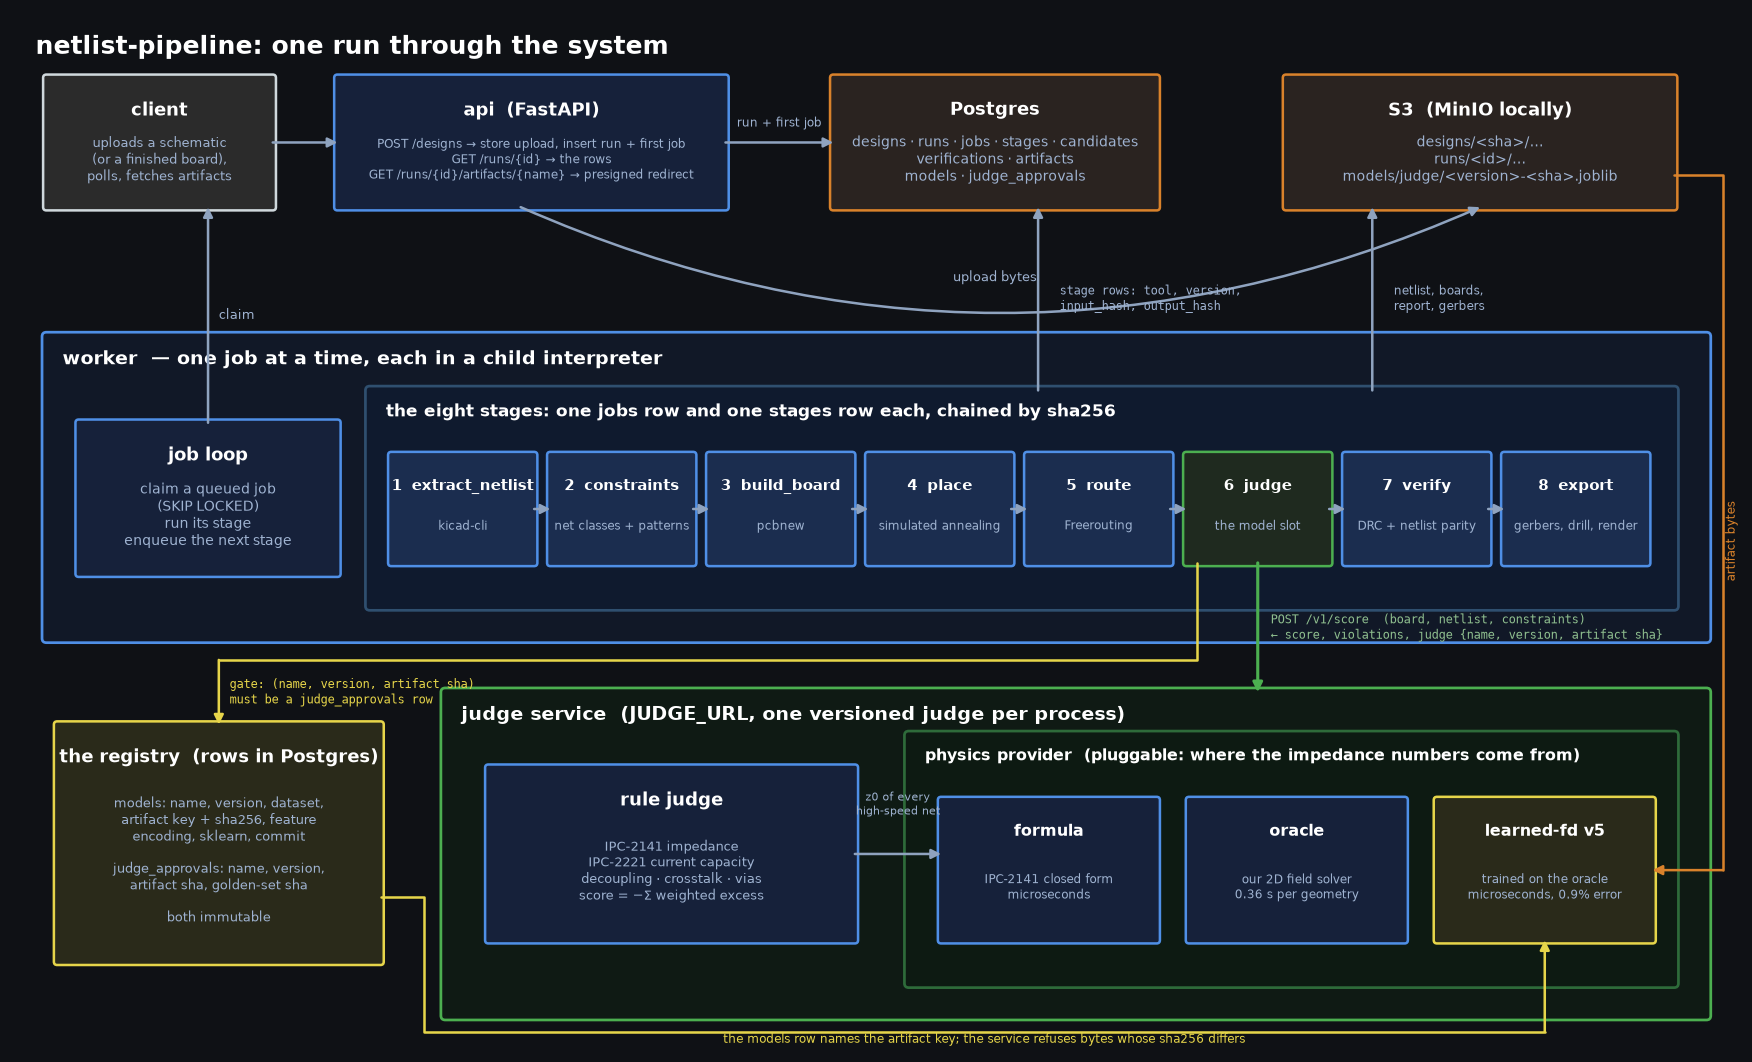
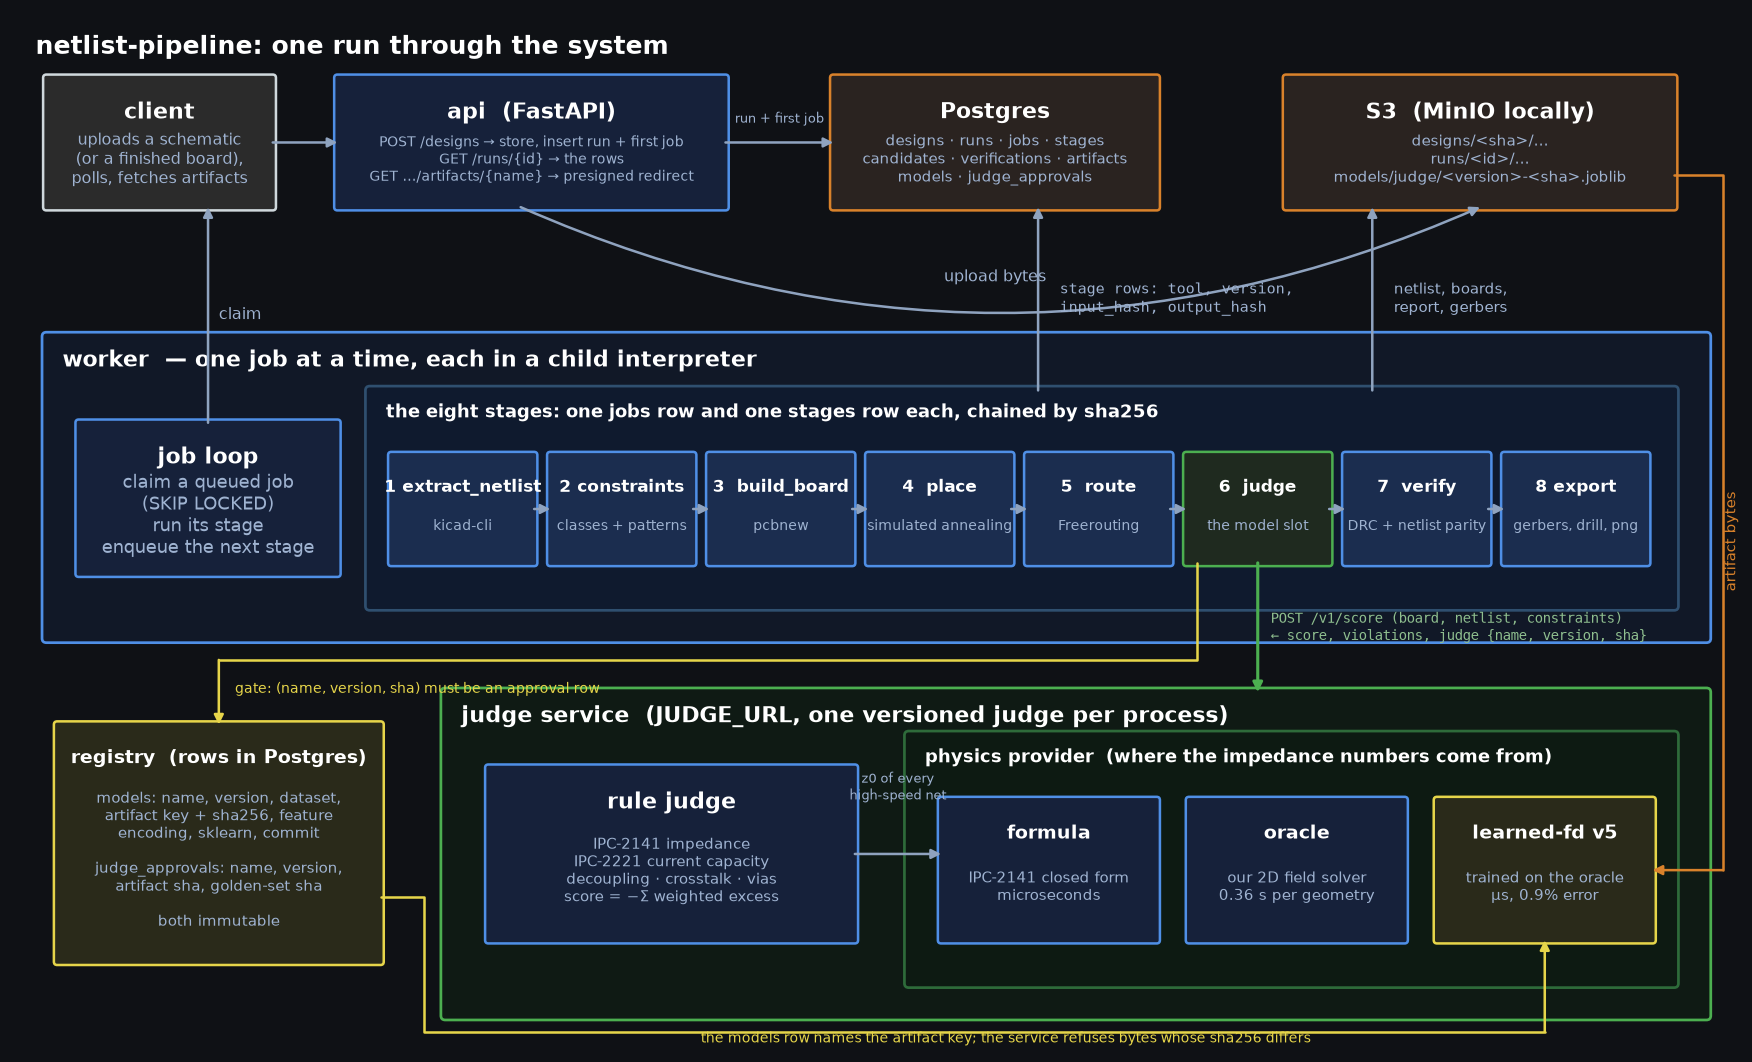
README: simple architecture first, detailed diagram collapsed and set larger
Claude-Session: https://claude.ai/code/session_01QX7QVxu7HEts5nS26wqjjR

diff --git a/docs/media/diagrams.py b/docs/media/diagrams.py
@@ -12,6 +12,7 @@ import matplotlib.pyplot as plt  # noqa: E402
 from matplotlib.patches import FancyBboxPatch  # noqa: E402
 
 OUT = Path(__file__).parent
+F = 1.25  # type scale: GitHub shows the image at ~900 px wide, so text has to be big
 BG, BLUE, BLUE_FC, ORANGE, ORANGE_FC = "#0f1115", "#4f8fe6", "#16213a", "#d9822b", "#2a2320"
 GREEN, GREEN_FC, GOLD, GOLD_FC, GREY, TXT, SUB = (
     "#4caf50", "#1f2a1f", "#e6d54a", "#2a2a1a", "#8fa3bf", "#ffffff", "#9fb3d1",
@@ -24,15 +25,15 @@ def box(ax, x1, y1, x2, y2, title, body="", fc=BLUE_FC, ec=BLUE, ts=9, bs=7.2, l
     )
     cx = (x1 + x2) / 2
     if body:
-        ax.text(cx, y2 - 2.2, title, color=TXT, ha="center", va="top", fontsize=ts, weight="bold")
-        ax.text(cx, y1 + (y2 - y1 - 3.2) / 2, body, color=SUB, ha="center", va="center", fontsize=bs)
+        ax.text(cx, y2 - 2.2, title, color=TXT, ha="center", va="top", fontsize=ts * F, weight="bold")
+        ax.text(cx, y1 + (y2 - y1 - 3.2) / 2, body, color=SUB, ha="center", va="center", fontsize=bs * F)
     else:
-        ax.text(cx, (y1 + y2) / 2, title, color=TXT, ha="center", va="center", fontsize=ts, weight="bold")
+        ax.text(cx, (y1 + y2) / 2, title, color=TXT, ha="center", va="center", fontsize=ts * F, weight="bold")
 
 
 def frame(ax, x1, y1, x2, y2, title, ec, fc="none", ts=10):
     ax.add_patch(FancyBboxPatch((x1, y1), x2 - x1, y2 - y1, boxstyle="round,pad=0.4", fc=fc, ec=ec, lw=1.4))
-    ax.text(x1 + 1.5, y2 - 1.2, title, color=TXT, ha="left", va="top", fontsize=ts, weight="bold")
+    ax.text(x1 + 1.5, y2 - 1.2, title, color=TXT, ha="left", va="top", fontsize=ts * F, weight="bold")
 
 
 def arrow(ax, p, q, color=GREY, rad=0.0, lw=1.3, ls="-"):
@@ -49,7 +50,7 @@ def poly(ax, pts, color=GREY, lw=1.3, ls="-"):
 
 
 def label(ax, x, y, s, color=SUB, size=7, ha="center", va="center", rot=0):
-    ax.text(x, y, s, color=color, ha=ha, va=va, fontsize=size, rotation=rot, family="monospace" if "/" in s or "_" in s else None)
+    ax.text(x, y, s, color=color, ha=ha, va=va, fontsize=size * F, rotation=rot, family="monospace" if "/" in s or "_" in s else None)
 
 
 def canvas(w, h, xmax, ymax):
@@ -68,30 +69,30 @@ def system() -> None:
 
     # row A: client, api, stores
     box(ax, 3, 78, 24, 90, "client", "uploads a schematic\n(or a finished board),\npolls, fetches artifacts", fc="#2b2b2b", ec="#cfd8dc", bs=6.6)
-    box(ax, 30, 78, 66, 90, "api  (FastAPI)", "POST /designs → store upload, insert run + first job\nGET /runs/{id} → the rows\nGET /runs/{id}/artifacts/{name} → presigned redirect", bs=6.2)
-    box(ax, 76, 78, 106, 90, "Postgres", "designs · runs · jobs · stages · candidates\nverifications · artifacts\nmodels · judge_approvals", fc=ORANGE_FC, ec=ORANGE)
-    box(ax, 118, 78, 154, 90, "S3  (MinIO locally)", "designs/<sha>/…\nruns/<id>/…\nmodels/judge/<version>-<sha>.joblib", fc=ORANGE_FC, ec=ORANGE)
+    box(ax, 30, 78, 66, 90, "api  (FastAPI)", "POST /designs → store, insert run + first job\nGET /runs/{id} → the rows\nGET …/artifacts/{name} → presigned redirect", bs=5.8)
+    box(ax, 76, 78, 106, 90, "Postgres", "designs · runs · jobs · stages\ncandidates · verifications · artifacts\nmodels · judge_approvals", fc=ORANGE_FC, ec=ORANGE, bs=6.2)
+    box(ax, 118, 78, 154, 90, "S3  (MinIO locally)", "designs/<sha>/…\nruns/<id>/…\nmodels/judge/<version>-<sha>.joblib", fc=ORANGE_FC, ec=ORANGE, bs=6.2)
     arrow(ax, (24, 84), (30, 84))
     arrow(ax, (66, 84), (76, 84))
-    label(ax, 71, 85.8, "run + first job", size=6.2)
+    label(ax, 71, 86.2, "run + first job", size=5.4)
     arrow(ax, (47, 78), (136, 78), rad=0.22)
     label(ax, 91, 71.5, "upload bytes", size=6.5)
 
     # row B: worker
-    frame(ax, 3, 38, 157, 66, "worker  — one job at a time, each in a child interpreter", BLUE, fc="#111827")
+    frame(ax, 3, 38, 157, 66, "worker  — one job at a time, each in a child interpreter", BLUE, fc="#111827", ts=9)
     box(ax, 6, 44, 30, 58, "job loop", "claim a queued job\n(SKIP LOCKED)\nrun its stage\nenqueue the next stage")
-    frame(ax, 33, 41, 154, 61, "the eight stages: one jobs row and one stages row each, chained by sha256", "#2f4f6f", fc="#0f1a2e", ts=8.5)
+    frame(ax, 33, 41, 154, 61, "the eight stages: one jobs row and one stages row each, chained by sha256", "#2f4f6f", fc="#0f1a2e", ts=7.5)
     stages = [
-        ("1  extract_netlist", "kicad-cli"), ("2  constraints", "net classes + patterns"),
+        ("1 extract_netlist", "kicad-cli"), ("2 constraints", "classes + patterns"),
         ("3  build_board", "pcbnew"), ("4  place", "simulated annealing"), ("5  route", "Freerouting"),
-        ("6  judge", "the model slot"), ("7  verify", "DRC + netlist parity"), ("8  export", "gerbers, drill, render"),
+        ("6  judge", "the model slot"), ("7  verify", "DRC + netlist parity"), ("8 export", "gerbers, drill, png"),
     ]  # fmt: skip
     xs = []
     for i, (t, b) in enumerate(stages):
         x1 = 35 + i * 14.75
         xs.append((x1, x1 + 13.25))
         slot = i == 5
-        box(ax, x1, 45, x1 + 13.25, 55, t, b, fc=GREEN_FC if slot else "#1b2d4f", ec=GREEN if slot else BLUE, ts=7.6, bs=6.2)
+        box(ax, x1, 45, x1 + 13.25, 55, t, b, fc=GREEN_FC if slot else "#1b2d4f", ec=GREEN if slot else BLUE, ts=7, bs=5.8)
         if i:
             arrow(ax, (xs[i - 1][1], 50), (x1, 50))
     arrow(ax, (18, 58), (18, 78))
@@ -102,24 +103,24 @@ def system() -> None:
     label(ax, 128, 69.5, "netlist, boards,\nreport, gerbers", size=6.3, ha="left")
 
     # row C: registry + judge service
-    box(ax, 4, 8, 34, 30, "the registry  (rows in Postgres)", "models: name, version, dataset,\nartifact key + sha256, feature\nencoding, sklearn, commit\n\njudge_approvals: name, version,\nartifact sha, golden-set sha\n\nboth immutable", fc=GOLD_FC, ec=GOLD, bs=6.6)
-    frame(ax, 40, 3, 157, 33, "judge service  (JUDGE_URL, one versioned judge per process)", GREEN, fc="#0f1a14")
-    box(ax, 44, 10, 78, 26, "rule judge", "IPC-2141 impedance\nIPC-2221 current capacity\ndecoupling · crosstalk · vias\nscore = −Σ weighted excess", bs=6.6)
-    frame(ax, 83, 6, 154, 29, "physics provider  (pluggable: where the impedance numbers come from)", "#2e6b3a", fc="#0d1a12", ts=8)
-    box(ax, 86, 10, 106, 23, "formula", "IPC-2141 closed form\nmicroseconds", ts=8, bs=6.4)
-    box(ax, 109, 10, 129, 23, "oracle", "our 2D field solver\n0.36 s per geometry", ts=8, bs=6.4)
-    box(ax, 132, 10, 152, 23, "learned-fd v5", "trained on the oracle\nmicroseconds, 0.9% error", fc=GOLD_FC, ec=GOLD, ts=8, bs=6.4)
+    box(ax, 4, 8, 34, 30, "registry  (rows in Postgres)", "models: name, version, dataset,\nartifact key + sha256, feature\nencoding, sklearn, commit\n\njudge_approvals: name, version,\nartifact sha, golden-set sha\n\nboth immutable", fc=GOLD_FC, ec=GOLD, bs=6, ts=8)
+    frame(ax, 40, 3, 157, 33, "judge service  (JUDGE_URL, one versioned judge per process)", GREEN, fc="#0f1a14", ts=9)
+    box(ax, 44, 10, 78, 26, "rule judge", "IPC-2141 impedance\nIPC-2221 current capacity\ndecoupling · crosstalk · vias\nscore = −Σ weighted excess", bs=6)
+    frame(ax, 83, 6, 154, 29, "physics provider  (where the impedance numbers come from)", "#2e6b3a", fc="#0d1a12", ts=7.5)
+    box(ax, 86, 10, 106, 23, "formula", "IPC-2141 closed form\nmicroseconds", ts=8, bs=6)
+    box(ax, 109, 10, 129, 23, "oracle", "our 2D field solver\n0.36 s per geometry", ts=8, bs=6)
+    box(ax, 132, 10, 152, 23, "learned-fd v5", "trained on the oracle\nµs, 0.9% error", fc=GOLD_FC, ec=GOLD, ts=8, bs=6)
     arrow(ax, (78, 18), (86, 18))
-    label(ax, 82, 22.6, "z0 of every\nhigh-speed net", size=5.8)
+    label(ax, 82, 24.2, "z0 of every\nhigh-speed net", size=5.4)
 
     # the slot, the gate, the bytes
     sx = (xs[5][0] + xs[5][1]) / 2
     arrow(ax, (sx, 45), (sx, 33), color=GREEN, lw=1.6)
-    label(ax, sx + 1.2, 39, "POST /v1/score  (board, netlist, constraints)\n← score, violations, judge {name, version, artifact sha}", color="#8fbf8f", size=6.3, ha="left")
+    label(ax, sx + 1.2, 39, "POST /v1/score (board, netlist, constraints)\n← score, violations, judge {name, version, sha}", color="#8fbf8f", size=5.8, ha="left")
     poly(ax, [(xs[5][0] + 1, 45), (xs[5][0] + 1, 36), (19, 36), (19, 30)], color=GOLD)
-    label(ax, 20, 33, "gate: (name, version, artifact sha)\nmust be a judge_approvals row", color=GOLD, size=6.3, ha="left")
+    label(ax, 20.5, 33.3, "gate: (name, version, sha) must be an approval row", color=GOLD, size=5.6, ha="left")
     poly(ax, [(34, 14), (38, 14), (38, 1.5), (142, 1.5), (142, 10)], color=GOLD)
-    label(ax, 90, 0.2, "the models row names the artifact key; the service refuses bytes whose sha256 differs", color=GOLD, size=6.3, va="bottom")
+    label(ax, 92, 0.2, "the models row names the artifact key; the service refuses bytes whose sha256 differs", color=GOLD, size=5.8, va="bottom")
     poly(ax, [(154, 81), (158.5, 81), (158.5, 16.5), (152, 16.5)], color=ORANGE)
     label(ax, 159.3, 47, "artifact bytes", color=ORANGE, size=6.3, rot=90)
     fig.savefig(OUT / "system.png", dpi=140, facecolor=BG, bbox_inches="tight")

diff --git a/README.md b/README.md
@@ -8,12 +8,28 @@ behind one HTTP contract, and a golden set decides whether the worker accepts it
 
 ## Architecture
 
-![One run through the system](docs/media/system.png)
+```mermaid
+flowchart LR
+    client([client]) -->|POST /designs| api[api<br/>FastAPI]
+    api --> pg[(Postgres<br/>designs, runs, jobs,<br/>stages, nets, candidates,<br/>verifications, artifacts)]
+    api --> s3[(S3<br/>uploads, boards,<br/>reports, gerbers)]
+    worker[worker<br/>kicad-cli, pcbnew,<br/>Freerouting] -->|claim job<br/>SKIP LOCKED| pg
+    worker --> s3
+    worker -->|POST /v1/score| judge[judge service<br/>rules + physics model]
+    client -->|GET /runs/id| api
+```
 
 Two containers from one image, a managed Postgres, and a bucket. The API never does work that
 takes more than a second: it writes a job row and the worker claims it. The worker runs the
-eight stages one job at a time, each in a child interpreter, and the judge stage calls a
-separate judge service over HTTP. That service is the model slot.
+eight stages one job at a time, and the judge stage calls a separate judge service over HTTP.
+That service is the model slot.
+
+<details>
+<summary><b>Detailed architecture</b>: the stages inside the worker, the judge service and its physics providers, the registry rows and the gate (click to expand; click the image for full size)</summary>
+
+![One run through the system](docs/media/system.png)
+
+</details>
 
 ## The eight stages
 
